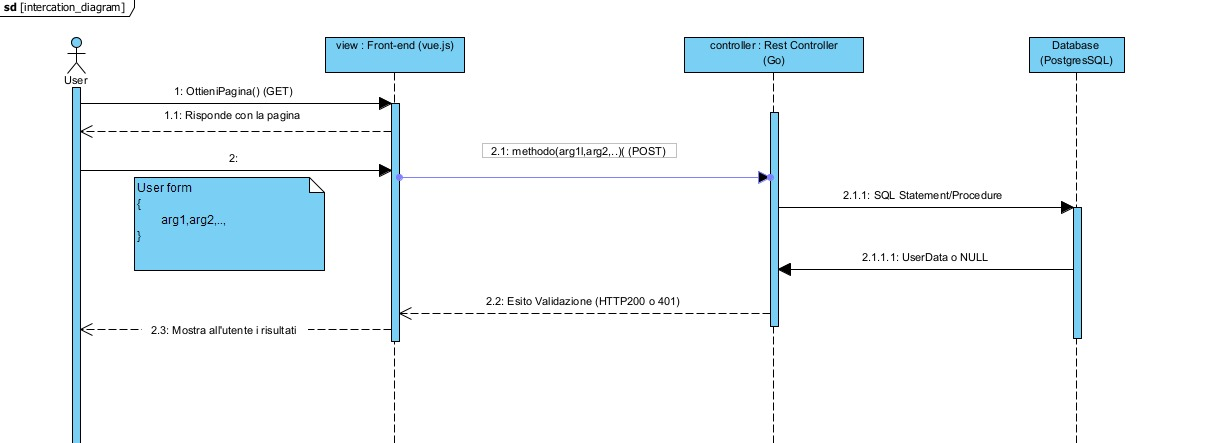
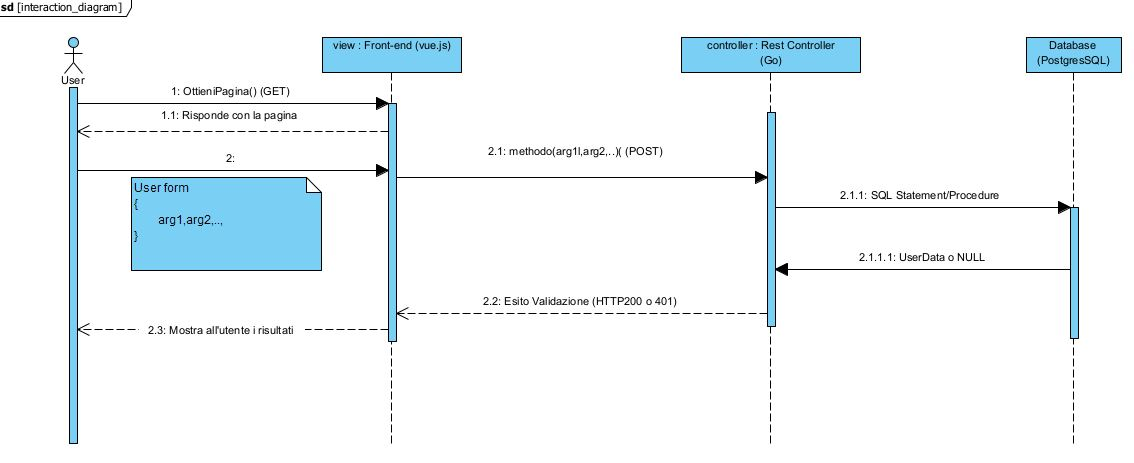
sync

diff --git a/documento_di_design.md b/documento_di_design.md
@@ -210,3 +210,7 @@ Per brevita riportiamo i diagrammi classe più interessanti
 ## 12. Diagramma Entita Relazione
 
 ![DiagrammaEntitaRelazione](./img/diagrammi_entita_relazione_design.jpg)
+
+## 12. Diagramma di Design delle componenti
+
+![DiagrammaInterazioniComponenti](./img/diagrammi_entita_relazione_design.jpg)
